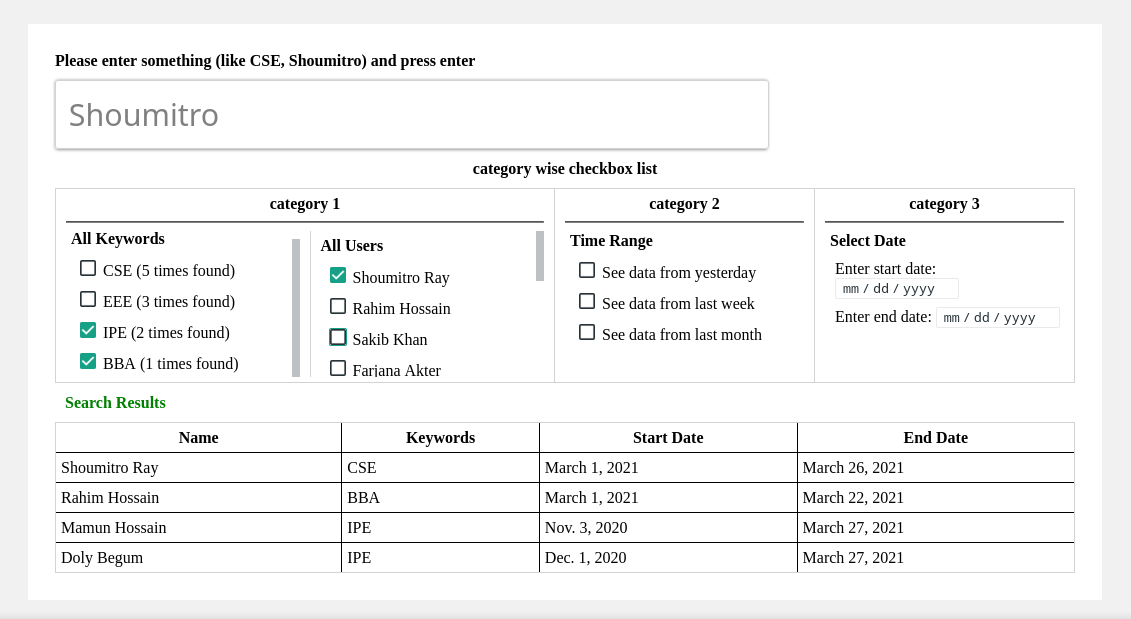
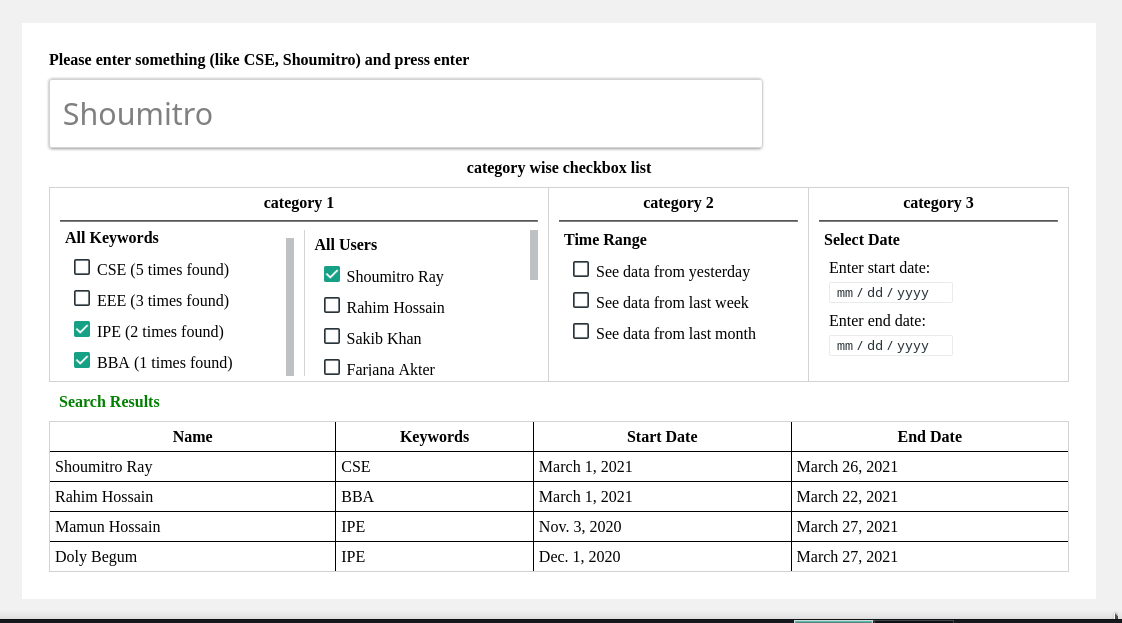
some internal change

Changed region(s): [[0.0312, 0.0614, 0.967, 0.9208], [0.0, 0.9822, 1.0, 1.0], [0.7487, 0.5525, 0.8422, 0.5832]]

diff --git a/templates/home.html b/templates/home.html
@@ -66,8 +66,14 @@
                     <hr />
                     <h4 style="margin: 5px;">Select Date</h4>
                     <ul>
-                        <li>Enter start date: <input onchange="selectDateView()" value="" type="date" id="start_date" /></li>
-                        <li>Enter end date: <input onchange="selectDateView()" value="" type="date" id="end_date" /></li>
+                        <li>
+                            <label style="margin-bottom: .3rem;display:block;">Enter start date:</label>
+                            <input onchange="selectDateView()" value="" type="date" id="start_date" />
+                        </li>
+                        <li>
+                            <label style="margin-bottom: .3rem;display:block;">Enter end date:</label>
+                            <input onchange="selectDateView()" value="" type="date" id="end_date" />
+                        </li>
                     </ul>
                 </div>
             </div>
